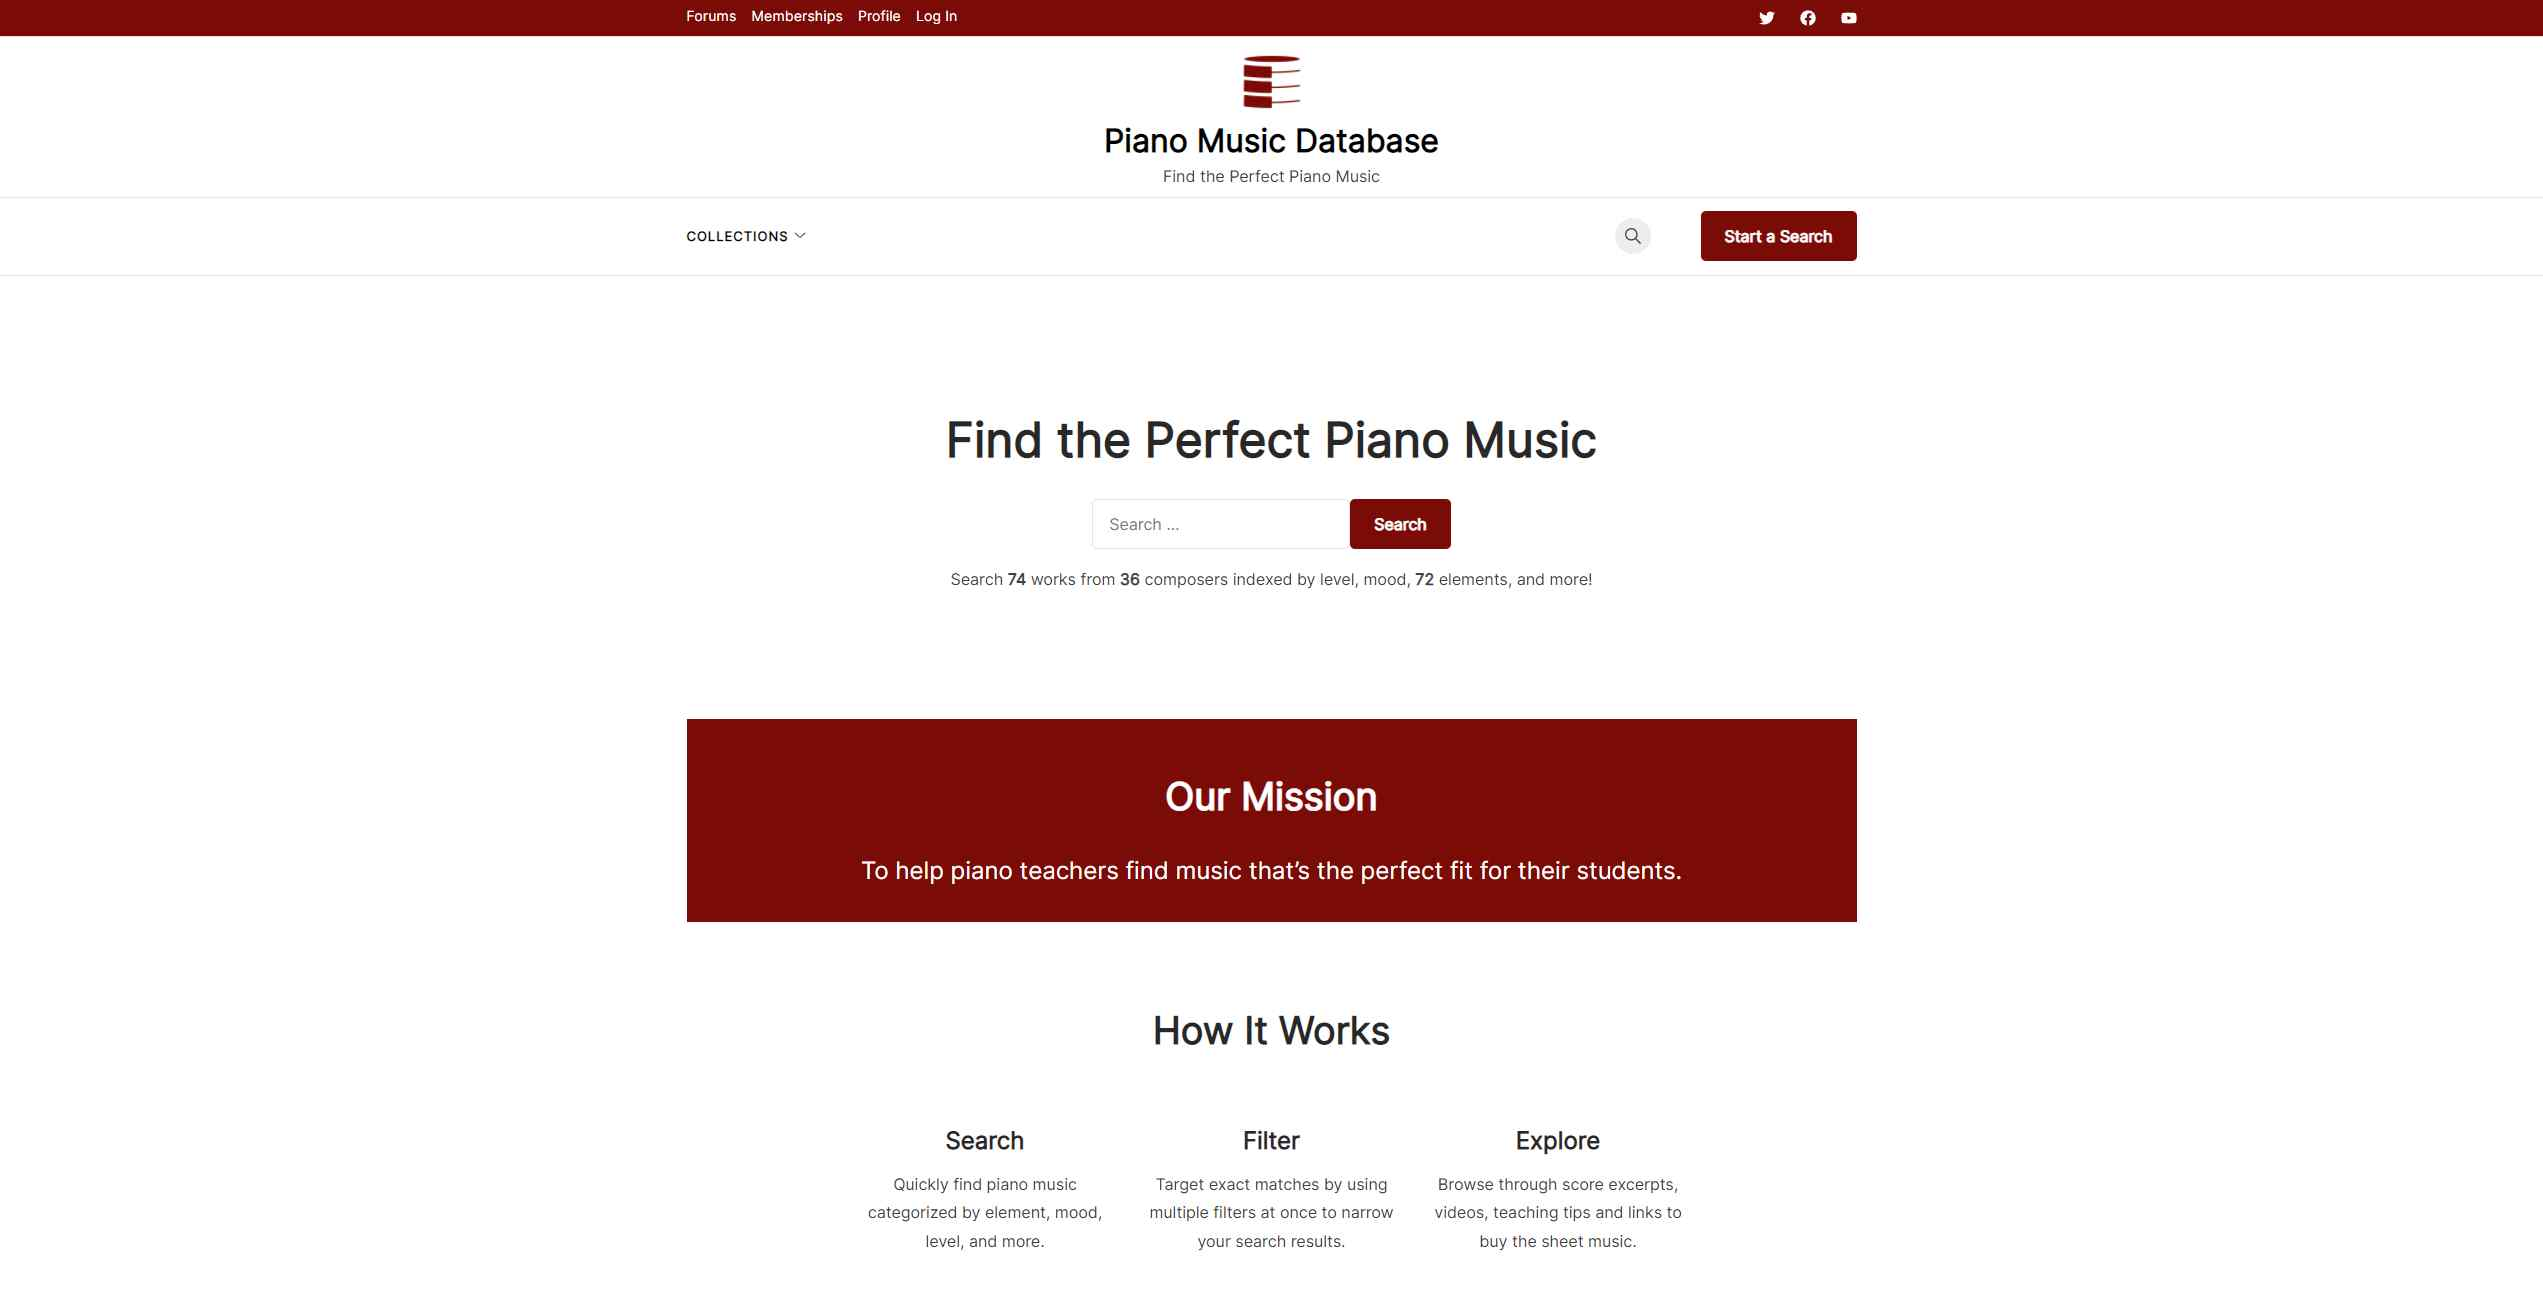
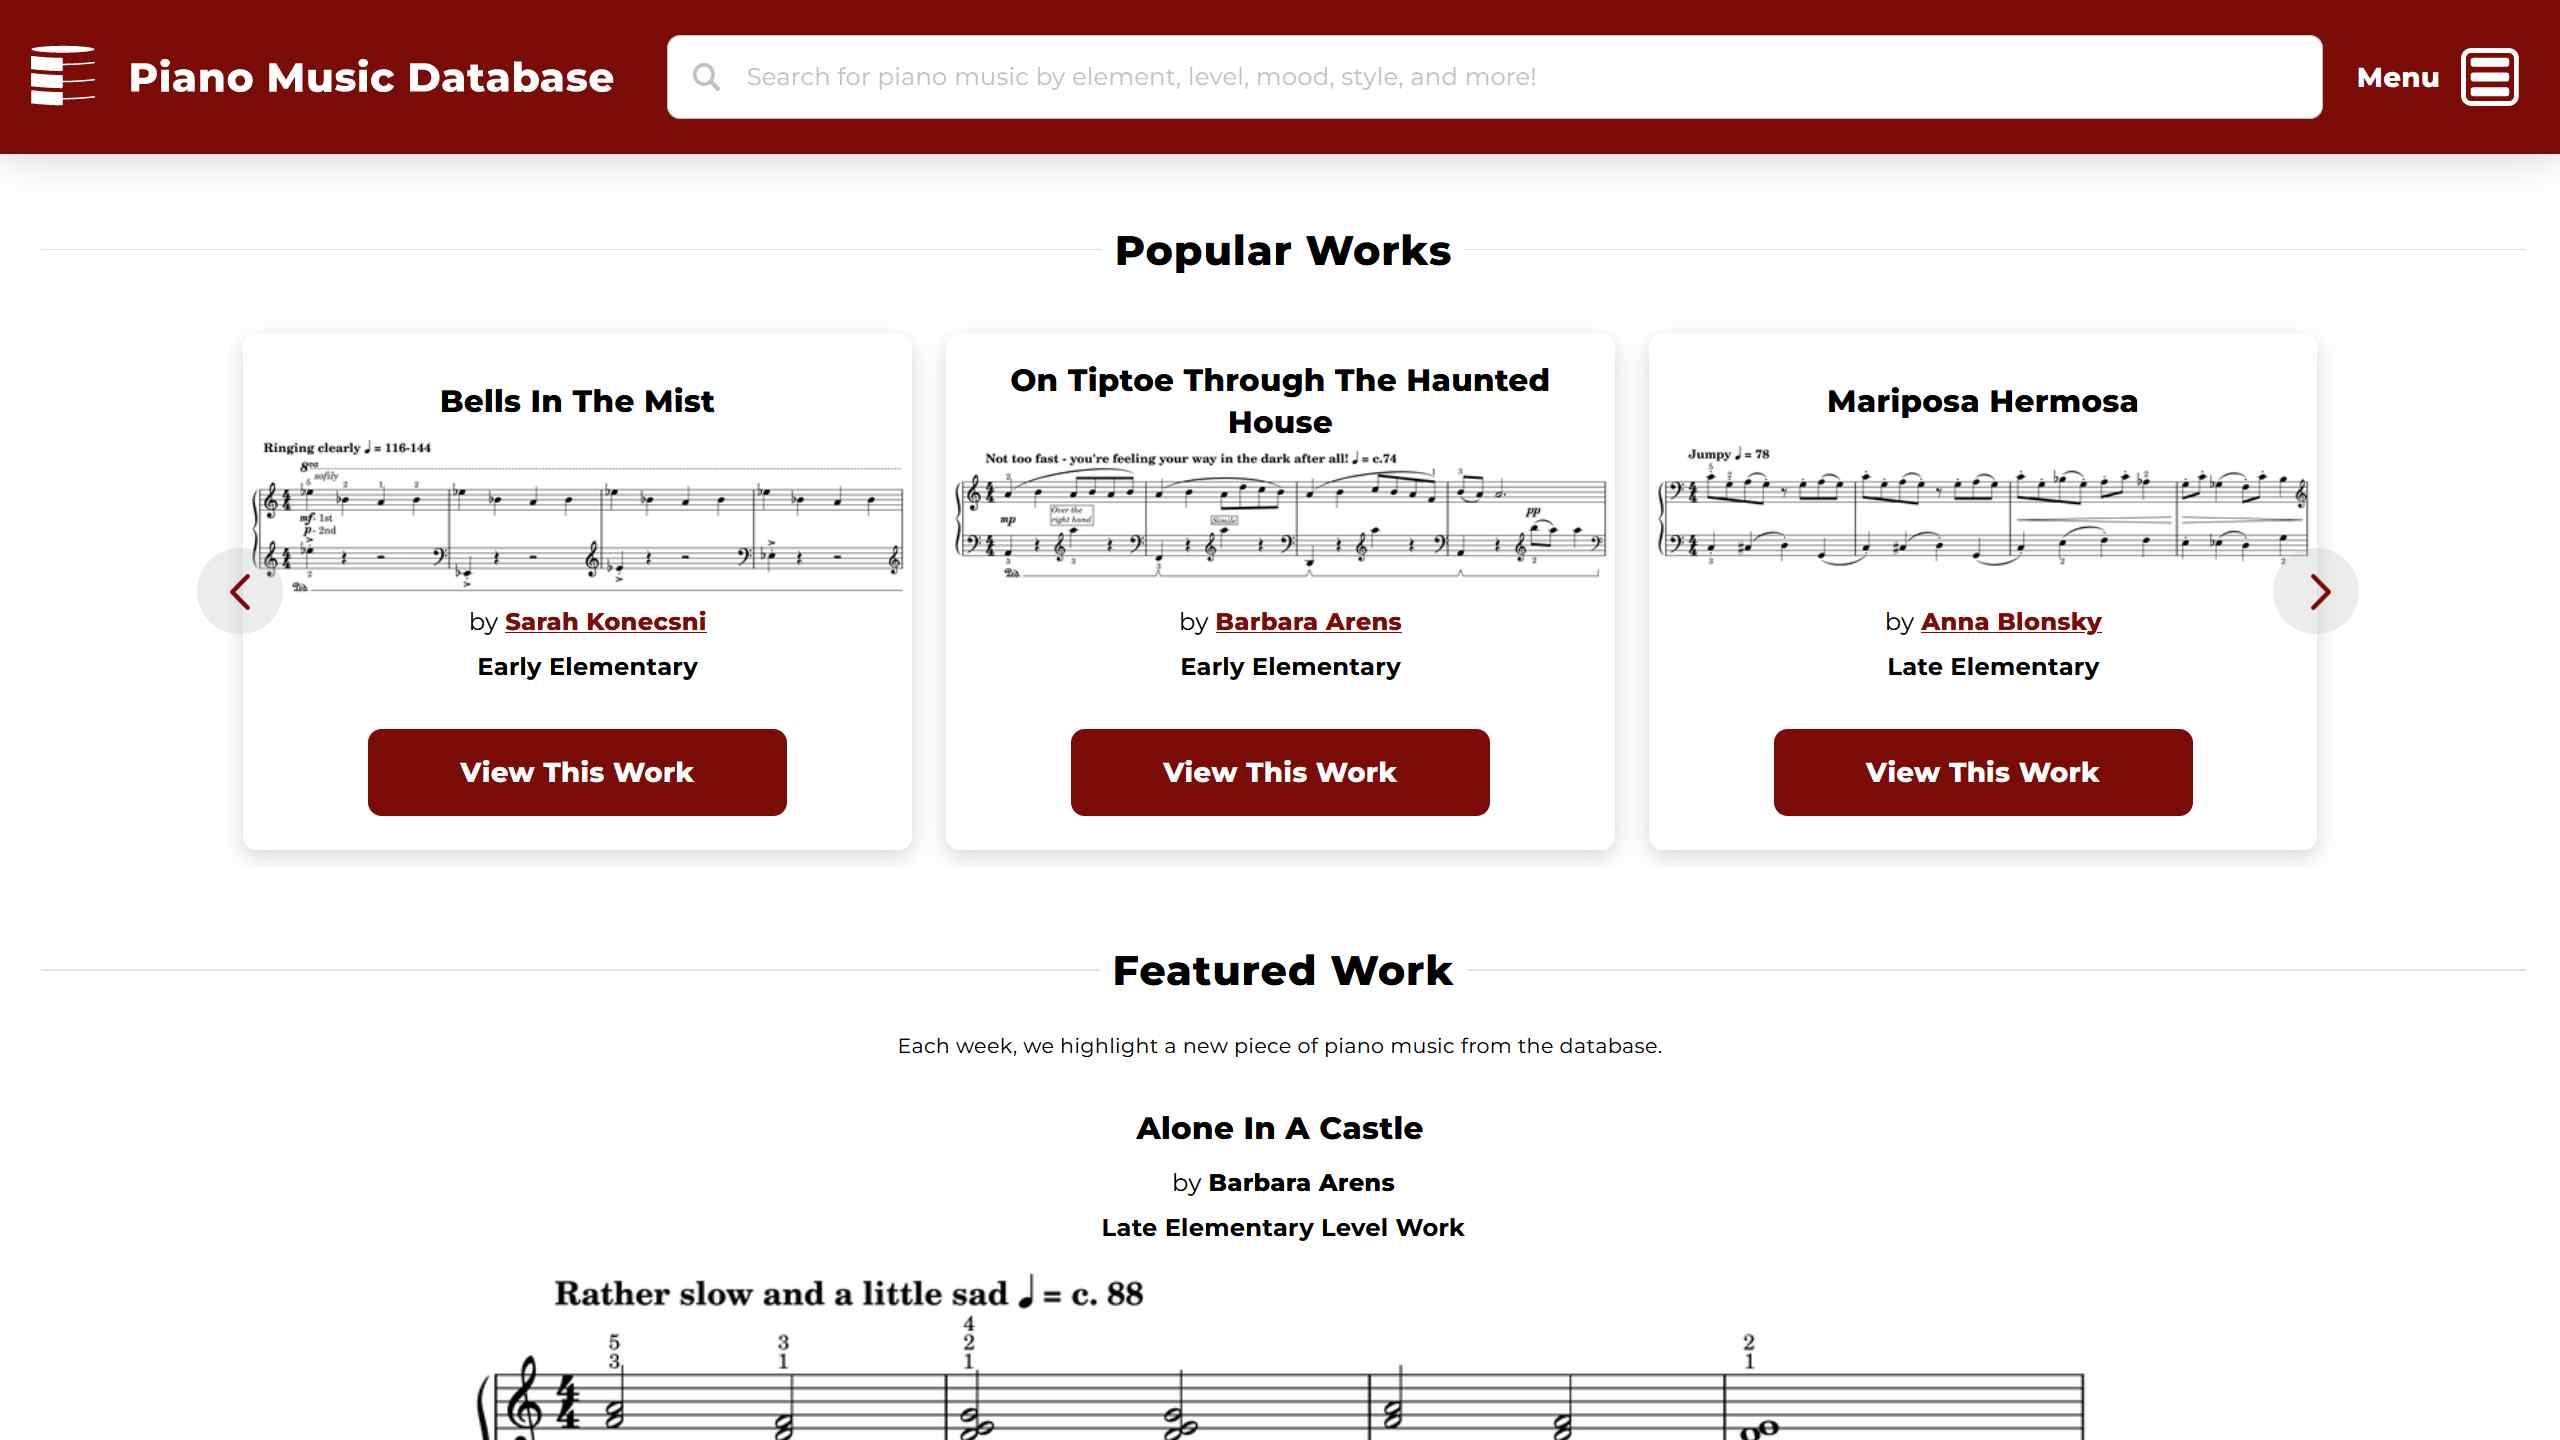
Update PMD to Show New Version
The /pmd page now shows the new version of Piano Music Database in the screenshots. A new screenshot was added to show the search page.

diff --git a/pmd.html b/pmd.html
@@ -75,16 +75,20 @@
 
             <section id="software">
                 <h2>Software Used:</h2>
-                <p>Adobe Illustrator, Adobe Photoshop, HTML and CSS, JavaScript, PHP, Web Server</p>
+                <p>Adobe Illustrator, Adobe Photoshop, HTML, CSS (<a href="https://tailwindcss.com" title="Visit Tailwind CSS at TailwindCSS.com" target="_blank" rel="noopener noreferrer">Tailwind CSS</a>), JavaScript (<a href="https://nextjs.org" title="Visit Next.js at NextJS.org" target="_blank" rel="noopener noreferrer">Next.js</a>), Web Server</p>
             </section>
 
             <section id="overview">
                 <h2>Work Overview:</h2>
-                <p>A Database of Piano Music developed using WordPress.</p>
+                <p>Piano Music Database (PMD) is a free online tool that helps you easily & quickly find music for your piano students. Search for pieces that incorporate specific pedagogical concepts; filter your results by mood, theme, style, and more!</p>
+
+                <p>Initial versions of the website were made using <a href="https://WordPress.org" title="Visit WordPress at WordPress.org" target="_blank" rel="noopener noreferrer">WordPress</a> to test the feasibility of a piano music database website on mobile and desktop. Currently the website is a "<a href="https://nextjs.org" title="Visit Next.js at NextJS.org" target="_blank" rel="noopener noreferrer">Next.js</a> with <a href="https://tailwindcss.com" title="Visit Tailwind CSS at TailwindCSS.com" target="_blank" rel="noopener noreferrer">Tailwind CSS</a>" PWA/website which is deployed from a GitHub repository to <a href="https://aws.amazon.com" title="Visit Amazon AWS at aws.amazon.com" target="_blank" rel="noopener noreferrer">AWS</a> servers using <a href="https://aws.amazon.com/codedeploy" title="Visit Amazon AWS CodeDeploy at aws.amazon.com/codedeploy" target="_blank" rel="noopener noreferrer">AWS CodeDeploy</a> in <a href="https://aws.amazon.com/codepipeline" title="Visit Amazon AWS CodePipeline at aws.amazon.com/codepipeline" target="_blank" rel="noopener noreferrer">AWS CodePipeline</a>. The search engine is powered by <a href="https://typesense.org" title="Visit Typesense at Typesense.org" target="_blank" rel="noopener noreferrer">Typesense</a> and the work data is gathered from a <a href="https://strapi.io" title="Visit Strapi at Strapi.io" target="_blank" rel="noopener noreferrer">Strapi</a> API.</p>
+
+                <p>The current branding (logo, font, color, social media post/email newsletter images, banners, etc) is designed using Adobe Illustrator and Adobe Photoshop.</p>
 
                 <hr>
 
-                <img src="/media/pmd0_home.jpg" alt="Piano Music Database - Homepage">
+                <img src="/media/pmd0_home.jpg" alt="Piano Music Database - Home Page">
 
                 <hr>
 
@@ -92,7 +96,11 @@
 
                 <hr>
 
-                <div class="marginvert"><a class="button" href="https://pianomusicdatabase.com" target="_blank" title="Go to Piano Music Database - A Database of Piano Music">Go to PianoMusicDatabase.com</a></div>
+                <img src="/media/pmd2_search.jpg" alt="Piano Music Database - Search with Filters">
+
+                <hr>
+
+                <div class="marginvert"><a class="button" href="https://pianomusicdatabase.com" target="_blank" rel="noopener noreferrer" title="Go to Piano Music Database - A Database of Piano Music">Go to PianoMusicDatabase.com</a></div>
             </section>
         </article>
     </main>
